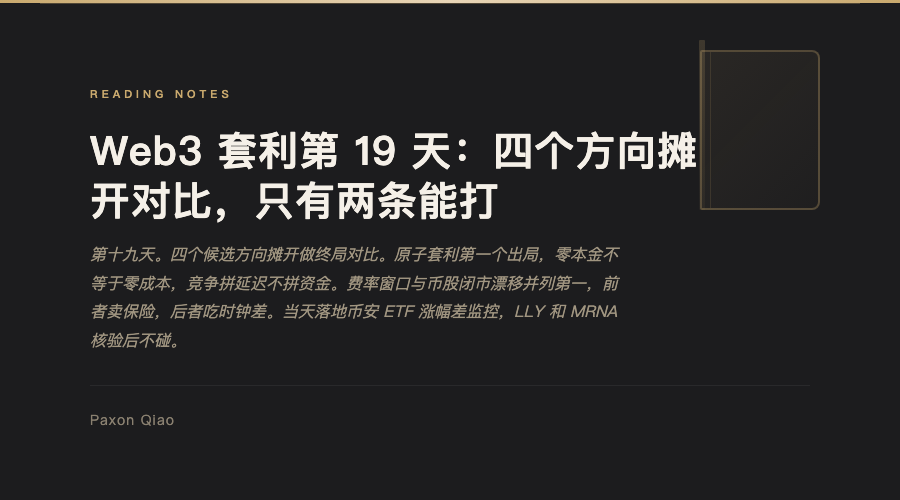
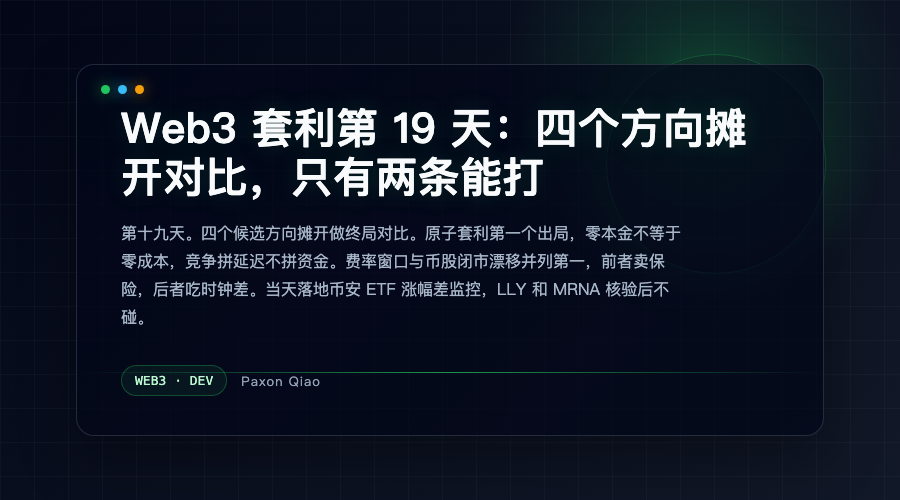
D19文章重推: 封面修复geek-black(原ship漏--style静默fallback literary) + 补群分享快报一节(13条核验三句话), media_id 100011948(旧100011941已删), 合规PASS

diff --git a/social/wechat/2026-08-23-d19-four-direction.html b/social/wechat/2026-08-23-d19-four-direction.html
@@ -15,22 +15,38 @@
 <meta charset="UTF-8"><meta name="viewport" content="width=device-width,initial-scale=1"><title>Cover</title>
 <style>
 *{margin:0;padding:0;box-sizing:border-box}
-body{width:900px;height:500px;overflow:hidden;font-family:'PingFang SC','Hiragino Sans GB','Microsoft YaHei',serif}
-.cover{width:900px;height:500px;background:#1c1c1e;position:relative;display:flex;flex-direction:column;justify-content:flex-end;padding:80px 90px 70px}
-.cover::before{content:'';position:absolute;top:0;left:0;right:0;height:3px;background:linear-gradient(90deg,#c9a96e,#e8d5b7,#c9a96e)}
-.cover::after{content:'';position:absolute;top:3px;left:40px;right:40px;height:1px;background:rgba(201,169,110,0.3)}
-.book-icon{position:absolute;top:50px;right:80px;width:120px;height:160px;border:2px solid rgba(201,169,110,0.3);border-radius:2px 8px 8px 2px;background:linear-gradient(135deg,rgba(201,169,110,0.08),rgba(201,169,110,0.02))}
-.book-icon::after{content:'';position:absolute;left:8px;top:0;bottom:0;width:1px;background:rgba(201,169,110,0.15)}
-.book-spine{position:absolute;top:40px;right:195px;width:6px;height:170px;background:linear-gradient(180deg,rgba(201,169,110,0.2),rgba(201,169,110,0.05));border-radius:1px}
-.tag{font-size:11px;font-weight:600;letter-spacing:4px;color:#c9a96e;text-transform:uppercase;margin-bottom:24px}
-.title{font-size:40px;font-weight:900;line-height:1.25;color:#f5f0e8;margin-bottom:14px;letter-spacing:1px;max-width:620px}
-.subtitle{font-size:16px;color:#a09580;line-height:1.8;margin-bottom:30px;max-width:540px;font-style:italic}
-.meta{display:flex;align-items:center;gap:10px;border-top:1px solid rgba(255,255,255,0.06);padding-top:24px}
-.author{font-size:14px;color:#8a8070;letter-spacing:1px}
-.dot{color:#c9a96e;margin:0 6px}
+body{width:900px;height:500px;overflow:hidden;font-family:'SF Pro Text',-apple-system,'PingFang SC','Hiragino Sans GB','Microsoft YaHei',sans-serif;background:#030712}
+.cover{width:900px;height:500px;position:relative;overflow:hidden;background:radial-gradient(circle at 78% 18%,rgba(34,197,94,.22),transparent 25%),linear-gradient(135deg,#020617 0%,#0b1020 48%,#111827 100%);color:#e5edf7;padding:64px 76px}
+.grid{position:absolute;inset:0;background-image:linear-gradient(rgba(148,163,184,.08) 1px,transparent 1px),linear-gradient(90deg,rgba(148,163,184,.08) 1px,transparent 1px);background-size:34px 34px;opacity:.65}
+.glow{position:absolute;right:74px;top:54px;width:220px;height:220px;border:1px solid rgba(34,197,94,.28);border-radius:50%;box-shadow:0 0 60px rgba(34,197,94,.16)}
+.panel{position:relative;height:100%;border:1px solid rgba(148,163,184,.22);border-radius:18px;background:rgba(2,6,23,.72);box-shadow:0 22px 55px rgba(0,0,0,.35);padding:38px 44px;display:flex;flex-direction:column;justify-content:center}
+.toolbar{position:absolute;top:20px;left:24px;display:flex;gap:8px}
+.dot{width:9px;height:9px;border-radius:50%;background:#22c55e;box-shadow:0 0 16px rgba(34,197,94,.8)}
+.dot:nth-child(2){background:#38bdf8;box-shadow:0 0 14px rgba(56,189,248,.7)}
+.dot:nth-child(3){background:#f59e0b;box-shadow:0 0 14px rgba(245,158,11,.65)}
+.tag{display:inline-block;color:#86efac;font-size:11px;font-weight:800;letter-spacing:4px;text-transform:uppercase;margin-bottom:24px}
+.prompt{color:#22c55e;margin-right:10px}
+.title{font-size:42px;font-weight:900;line-height:1.16;color:#f8fafc;max-width:640px;margin-bottom:18px;letter-spacing:.4px;text-shadow:0 0 24px rgba(34,197,94,.16)}
+.subtitle{font-size:16px;color:#a7b6c8;line-height:1.75;max-width:560px;margin-bottom:34px}
+.meta{display:flex;align-items:center;gap:14px;color:#94a3b8;font-size:13px}
+.chip{border:1px solid rgba(34,197,94,.32);border-radius:999px;padding:7px 13px;color:#bbf7d0;background:rgba(34,197,94,.08);font-family:'SF Mono',Consolas,monospace}
+.author{letter-spacing:1px}
+.scanline{position:absolute;left:0;right:0;bottom:62px;height:1px;background:linear-gradient(90deg,transparent,#22c55e,transparent);opacity:.75}
 </style>
 </head>
-<body><div class="cover"><div class="book-icon"></div><div class="book-spine"></div><div class="tag">READING NOTES</div><h1 class="title">Web3 套利第 19 天：四个方向摊开对比，只有两条能打</h1><p class="subtitle">第十九天。四个候选方向摊开做终局对比。原子套利第一个出局，零本金不等于零成本，竞争拼延迟不拼资金。费率窗口与币股闭市漂移并列第一，前者卖保险，后者吃时钟差。当天落地币安 ETF 涨幅差监控，LLY 和 MRNA 核验后不碰。</p><div class="meta"><span class="author">Paxon Qiao</span></div></div></body>
+<body>
+<main class="cover" data-cover-style="geek-black">
+  <div class="grid"></div><div class="glow"></div>
+  <section class="panel">
+    <div class="toolbar"><span class="dot"></span><span class="dot"></span><span class="dot"></span></div>
+
+    <h1 class="title">Web3 套利第 19 天：四个方向摊开对比，只有两条能打</h1>
+    <p class="subtitle">第十九天。四个候选方向摊开做终局对比。原子套利第一个出局，零本金不等于零成本，竞争拼延迟不拼资金。费率窗口与币股闭市漂移并列第一，前者卖保险，后者吃时钟差。当天落地币安 ETF 涨幅差监控，LLY 和 MRNA 核验后不碰。</p>
+    <div class="meta"><span class="chip">WEB3 · DEV</span><span class="author">Paxon Qiao</span></div>
+    <div class="scanline"></div>
+  </section>
+</main>
+</body>
 </html>
 <h2 style="font-size: 19px; font-weight: 800; color: #1a1a1a; margin: 2.3em 0 1em; padding: 0 0 10px 14px; border-left: 5px solid #2c2c2c; border-bottom: 1px solid #e5e7eb; letter-spacing: 1px; line-height:1.45;">Web3 套利第 19 天：四个方向摊开对比，只有两条能打</h2>
 
@@ -196,7 +212,17 @@ body{width:900px;height:500px;overflow:hidden;font-family:'PingFang SC','Hiragin
 
 <p style="margin: 0 0 1.25em; color: #555; font-size: 15px; line-height: 1.95; letter-spacing: 0.08em; word-spacing: 0.05em; text-align: justify; text-indent: 2em;">结论两句话。第一，加仓方式改变不了常驻价差不可执行的结论，D17 和 D18 互证。第二，线性加仓显著少亏 56%，说明价差大时下注多点边际上有效，但前提是样本本身可执行。常驻价差上加杠杆等于在错误的地方加杠杆。下一步把同样本套到事件窗口子集，验证肉在事件窗口加窗口内重注的组合。</p>
 
-<h2 style="font-size: 19px; font-weight: 800; color: #1a1a1a; margin: 2.3em 0 1em; padding: 0 0 10px 14px; border-left: 5px solid #2c2c2c; border-bottom: 1px solid #e5e7eb; letter-spacing: 1px; line-height:1.45;">十二、明天做什么</h2>
+<h2 style="font-size: 19px; font-weight: 800; color: #1a1a1a; margin: 2.3em 0 1em; padding: 0 0 10px 14px; border-left: 5px solid #2c2c2c; border-bottom: 1px solid #e5e7eb; letter-spacing: 1px; line-height:1.45;">十二、群分享快报，13 条核验三句话</h2>
+
+<p style="margin: 0 0 1.25em; color: #555; font-size: 15px; line-height: 1.95; letter-spacing: 0.08em; word-spacing: 0.05em; text-align: justify; text-indent: 2em;">当天 13 条群分享全部核验归档进 README 并同步 Obsidian，提炼三条线。</p>
+
+<p style="margin: 0 0 1.25em; color: #555; font-size: 15px; line-height: 1.95; letter-spacing: 0.08em; word-spacing: 0.05em; text-align: justify; text-indent: 2em;"><strong style="color: #1a1a1a;">第一条，PM 线最热闹，故事打折看。</strong> 老鹰一天连发三条 PM 推广（5 分钟脚本、15 分钟助手、新闻套利机器人），仓库都真实存在，但全无 LICENSE 不能拷，单日五万和月入五到七万的数字互相矛盾且无独立验证，返佣推广实锤。机制本身有价值。5 分钟盘最后两分钟顺势进场，和 runes_leo 的赢家研究互证，后者扫了 533 个市场 78 万条成交、从 14441 个地址里筛出 12 个持续赢家，分三类（做市剥头皮、最后半天方向、早进场铺仓动态砍仓），48 小时盘占部署 44% 到 67%，单人月盈利天花板已经很低。0xPINK3 的量化机器人 132 天近三万次预测只有 50% 胜率，认知是胜率够用、赢在仓位随时间构建和调整，和我们执行框架同构。财经老王的重注案例（64 笔押注从 500 美元到 17 万美元）单笔五到十万美元，风险集中到作者自己都说极少人采用。Pendle Boros 界面 APR 净 1.89%，PNL 是营销数字。a-stock-data 仓库 Apache 2.0 真实，A 股不在赛道不装。全部归档，PM 线维持观察、不装工具。</p>
+
+<p style="margin: 0 0 1.25em; color: #555; font-size: 15px; line-height: 1.95; letter-spacing: 0.08em; word-spacing: 0.05em; text-align: justify; text-indent: 2em;"><strong style="color: #1a1a1a;">第二条，监管在系统性拥抱加密资产证券化。</strong> qinbafrank 讲 SEC 8 月 19 日新规（Regulation Crypto Assets）给有业务基础的代币开了合规公开募资路径，跑路成本上升，空气币空间被挤压。和 SEC 批代币化股票、Solana 周报代币化股票供给 4.65 亿创周新高放一起，币股 RWA 线的长期顺风又多一条证据。</p>
+
+<p style="margin: 0 0 1.25em; color: #555; font-size: 15px; line-height: 1.95; letter-spacing: 0.08em; word-spacing: 0.05em; text-align: justify; text-indent: 2em;"><strong style="color: #1a1a1a;">第三条，安全和技术面各收一份。</strong> Term Finance 治理攻击取证完整还原，攻击者 0.5 ETH 买到 90.66% 投票权，资金流失 94 分钟后受害方才质押，Blockaid 统计八周七个协议被卷走约 2200 万美元，和 BonkDAO、Compound 同族。Zcash 屏蔽池的状态膨胀问题核验通过，nullifier 集合只增不减，评估隐私链项目要先看状态增长模型。支撑压力教程归档备查，技术分析只当人定阈值的输入，不靠 K 线猜方向。taoli 工具实操认知和 D17 D18 回测互证，大部分时间不成交，适合大资金做年化。</p>
+
+<h2 style="font-size: 19px; font-weight: 800; color: #1a1a1a; margin: 2.3em 0 1em; padding: 0 0 10px 14px; border-left: 5px solid #2c2c2c; border-bottom: 1px solid #e5e7eb; letter-spacing: 1px; line-height:1.45;">十三、明天做什么</h2>
 
 <p style="margin: 0 0 1.25em; color: #555; font-size: 15px; line-height: 1.95; letter-spacing: 0.08em; word-spacing: 0.05em; text-align: justify; text-indent: 2em;">周一 21:00，Solana 币股监控首次生效，开盘收敛异常自动推送。币安 ETF 监控持续攒周末窗口数据。费率双模式判定函数开发。每一步让数据和盘口先说话，方向对比表只是地图，不是订单。</p>
 

diff --git a/social/wechat/2026-08-23-d19-four-direction.cover.html b/social/wechat/2026-08-23-d19-four-direction.cover.html
@@ -4,20 +4,36 @@
 <meta charset="UTF-8"><meta name="viewport" content="width=device-width,initial-scale=1"><title>Cover</title>
 <style>
 *{margin:0;padding:0;box-sizing:border-box}
-body{width:900px;height:500px;overflow:hidden;font-family:'PingFang SC','Hiragino Sans GB','Microsoft YaHei',serif}
-.cover{width:900px;height:500px;background:#1c1c1e;position:relative;display:flex;flex-direction:column;justify-content:flex-end;padding:80px 90px 70px}
-.cover::before{content:'';position:absolute;top:0;left:0;right:0;height:3px;background:linear-gradient(90deg,#c9a96e,#e8d5b7,#c9a96e)}
-.cover::after{content:'';position:absolute;top:3px;left:40px;right:40px;height:1px;background:rgba(201,169,110,0.3)}
-.book-icon{position:absolute;top:50px;right:80px;width:120px;height:160px;border:2px solid rgba(201,169,110,0.3);border-radius:2px 8px 8px 2px;background:linear-gradient(135deg,rgba(201,169,110,0.08),rgba(201,169,110,0.02))}
-.book-icon::after{content:'';position:absolute;left:8px;top:0;bottom:0;width:1px;background:rgba(201,169,110,0.15)}
-.book-spine{position:absolute;top:40px;right:195px;width:6px;height:170px;background:linear-gradient(180deg,rgba(201,169,110,0.2),rgba(201,169,110,0.05));border-radius:1px}
-.tag{font-size:11px;font-weight:600;letter-spacing:4px;color:#c9a96e;text-transform:uppercase;margin-bottom:24px}
-.title{font-size:40px;font-weight:900;line-height:1.25;color:#f5f0e8;margin-bottom:14px;letter-spacing:1px;max-width:620px}
-.subtitle{font-size:16px;color:#a09580;line-height:1.8;margin-bottom:30px;max-width:540px;font-style:italic}
-.meta{display:flex;align-items:center;gap:10px;border-top:1px solid rgba(255,255,255,0.06);padding-top:24px}
-.author{font-size:14px;color:#8a8070;letter-spacing:1px}
-.dot{color:#c9a96e;margin:0 6px}
+body{width:900px;height:500px;overflow:hidden;font-family:'SF Pro Text',-apple-system,'PingFang SC','Hiragino Sans GB','Microsoft YaHei',sans-serif;background:#030712}
+.cover{width:900px;height:500px;position:relative;overflow:hidden;background:radial-gradient(circle at 78% 18%,rgba(34,197,94,.22),transparent 25%),linear-gradient(135deg,#020617 0%,#0b1020 48%,#111827 100%);color:#e5edf7;padding:64px 76px}
+.grid{position:absolute;inset:0;background-image:linear-gradient(rgba(148,163,184,.08) 1px,transparent 1px),linear-gradient(90deg,rgba(148,163,184,.08) 1px,transparent 1px);background-size:34px 34px;opacity:.65}
+.glow{position:absolute;right:74px;top:54px;width:220px;height:220px;border:1px solid rgba(34,197,94,.28);border-radius:50%;box-shadow:0 0 60px rgba(34,197,94,.16)}
+.panel{position:relative;height:100%;border:1px solid rgba(148,163,184,.22);border-radius:18px;background:rgba(2,6,23,.72);box-shadow:0 22px 55px rgba(0,0,0,.35);padding:38px 44px;display:flex;flex-direction:column;justify-content:center}
+.toolbar{position:absolute;top:20px;left:24px;display:flex;gap:8px}
+.dot{width:9px;height:9px;border-radius:50%;background:#22c55e;box-shadow:0 0 16px rgba(34,197,94,.8)}
+.dot:nth-child(2){background:#38bdf8;box-shadow:0 0 14px rgba(56,189,248,.7)}
+.dot:nth-child(3){background:#f59e0b;box-shadow:0 0 14px rgba(245,158,11,.65)}
+.tag{display:inline-block;color:#86efac;font-size:11px;font-weight:800;letter-spacing:4px;text-transform:uppercase;margin-bottom:24px}
+.prompt{color:#22c55e;margin-right:10px}
+.title{font-size:42px;font-weight:900;line-height:1.16;color:#f8fafc;max-width:640px;margin-bottom:18px;letter-spacing:.4px;text-shadow:0 0 24px rgba(34,197,94,.16)}
+.subtitle{font-size:16px;color:#a7b6c8;line-height:1.75;max-width:560px;margin-bottom:34px}
+.meta{display:flex;align-items:center;gap:14px;color:#94a3b8;font-size:13px}
+.chip{border:1px solid rgba(34,197,94,.32);border-radius:999px;padding:7px 13px;color:#bbf7d0;background:rgba(34,197,94,.08);font-family:'SF Mono',Consolas,monospace}
+.author{letter-spacing:1px}
+.scanline{position:absolute;left:0;right:0;bottom:62px;height:1px;background:linear-gradient(90deg,transparent,#22c55e,transparent);opacity:.75}
 </style>
 </head>
-<body><div class="cover"><div class="book-icon"></div><div class="book-spine"></div><div class="tag">READING NOTES</div><h1 class="title">Web3 套利第 19 天：四个方向摊开对比，只有两条能打</h1><p class="subtitle">第十九天。四个候选方向摊开做终局对比。原子套利第一个出局，零本金不等于零成本，竞争拼延迟不拼资金。费率窗口与币股闭市漂移并列第一，前者卖保险，后者吃时钟差。当天落地币安 ETF 涨幅差监控，LLY 和 MRNA 核验后不碰。</p><div class="meta"><span class="author">Paxon Qiao</span></div></div></body>
+<body>
+<main class="cover" data-cover-style="geek-black">
+  <div class="grid"></div><div class="glow"></div>
+  <section class="panel">
+    <div class="toolbar"><span class="dot"></span><span class="dot"></span><span class="dot"></span></div>
+
+    <h1 class="title">Web3 套利第 19 天：四个方向摊开对比，只有两条能打</h1>
+    <p class="subtitle">第十九天。四个候选方向摊开做终局对比。原子套利第一个出局，零本金不等于零成本，竞争拼延迟不拼资金。费率窗口与币股闭市漂移并列第一，前者卖保险，后者吃时钟差。当天落地币安 ETF 涨幅差监控，LLY 和 MRNA 核验后不碰。</p>
+    <div class="meta"><span class="chip">WEB3 · DEV</span><span class="author">Paxon Qiao</span></div>
+    <div class="scanline"></div>
+  </section>
+</main>
+</body>
 </html>

diff --git a/social/wechat/2026-08-23-d19-four-direction.md b/social/wechat/2026-08-23-d19-four-direction.md
@@ -114,7 +114,17 @@ execution_guard 实盘纪律。资金护栏不超总资金 20%，净收益门槛
 
 结论两句话。第一，加仓方式改变不了常驻价差不可执行的结论，D17 和 D18 互证。第二，线性加仓显著少亏 56%，说明价差大时下注多点边际上有效，但前提是样本本身可执行。常驻价差上加杠杆等于在错误的地方加杠杆。下一步把同样本套到事件窗口子集，验证肉在事件窗口加窗口内重注的组合。
 
-## 十二、明天做什么
+## 十二、群分享快报，13 条核验三句话
+
+当天 13 条群分享全部核验归档进 README 并同步 Obsidian，提炼三条线。
+
+**第一条，PM 线最热闹，故事打折看。** 老鹰一天连发三条 PM 推广（5 分钟脚本、15 分钟助手、新闻套利机器人），仓库都真实存在，但全无 LICENSE 不能拷，单日五万和月入五到七万的数字互相矛盾且无独立验证，返佣推广实锤。机制本身有价值。5 分钟盘最后两分钟顺势进场，和 runes_leo 的赢家研究互证，后者扫了 533 个市场 78 万条成交、从 14441 个地址里筛出 12 个持续赢家，分三类（做市剥头皮、最后半天方向、早进场铺仓动态砍仓），48 小时盘占部署 44% 到 67%，单人月盈利天花板已经很低。0xPINK3 的量化机器人 132 天近三万次预测只有 50% 胜率，认知是胜率够用、赢在仓位随时间构建和调整，和我们执行框架同构。财经老王的重注案例（64 笔押注从 500 美元到 17 万美元）单笔五到十万美元，风险集中到作者自己都说极少人采用。Pendle Boros 界面 APR 净 1.89%，PNL 是营销数字。a-stock-data 仓库 Apache 2.0 真实，A 股不在赛道不装。全部归档，PM 线维持观察、不装工具。
+
+**第二条，监管在系统性拥抱加密资产证券化。** qinbafrank 讲 SEC 8 月 19 日新规（Regulation Crypto Assets）给有业务基础的代币开了合规公开募资路径，跑路成本上升，空气币空间被挤压。和 SEC 批代币化股票、Solana 周报代币化股票供给 4.65 亿创周新高放一起，币股 RWA 线的长期顺风又多一条证据。
+
+**第三条，安全和技术面各收一份。** Term Finance 治理攻击取证完整还原，攻击者 0.5 ETH 买到 90.66% 投票权，资金流失 94 分钟后受害方才质押，Blockaid 统计八周七个协议被卷走约 2200 万美元，和 BonkDAO、Compound 同族。Zcash 屏蔽池的状态膨胀问题核验通过，nullifier 集合只增不减，评估隐私链项目要先看状态增长模型。支撑压力教程归档备查，技术分析只当人定阈值的输入，不靠 K 线猜方向。taoli 工具实操认知和 D17 D18 回测互证，大部分时间不成交，适合大资金做年化。
+
+## 十三、明天做什么
 
 周一 21:00，Solana 币股监控首次生效，开盘收敛异常自动推送。币安 ETF 监控持续攒周末窗口数据。费率双模式判定函数开发。每一步让数据和盘口先说话，方向对比表只是地图，不是订单。
 

diff --git a/templates/wechat-publish-sop.md b/templates/wechat-publish-sop.md
@@ -78,4 +78,4 @@
 - **二进制过期**（2026-08-09）：`--style geek-black` 静默 fallback 成 literary 封面 → ship 前 `cargo build --release` + OCR 确认 BUILD NOTES
 - **正文主题**：`moonpub.toml theme` 控制（当前 `geek` 浅色，用户定稿）；与 `--style`（封面）独立
 - **已发布文章别重 ship**：查 `.moonpub/status.jsonl`，误推用 `delete-draft <media_id>` 删
-| D19 四方向对比只有两条能打 | 100011941（草稿 08-24，https://mp.weixin.qq.com/s/JiPQ3AA7-snP9pYq-fTi8A 待发布，链接待补） | 08-24 |
+| D19 四方向对比只有两条能打 | 100011948（重推 08-25：封面修 geek-black + 补群分享快报节，旧稿 100011941 已删） | 08-24 |
